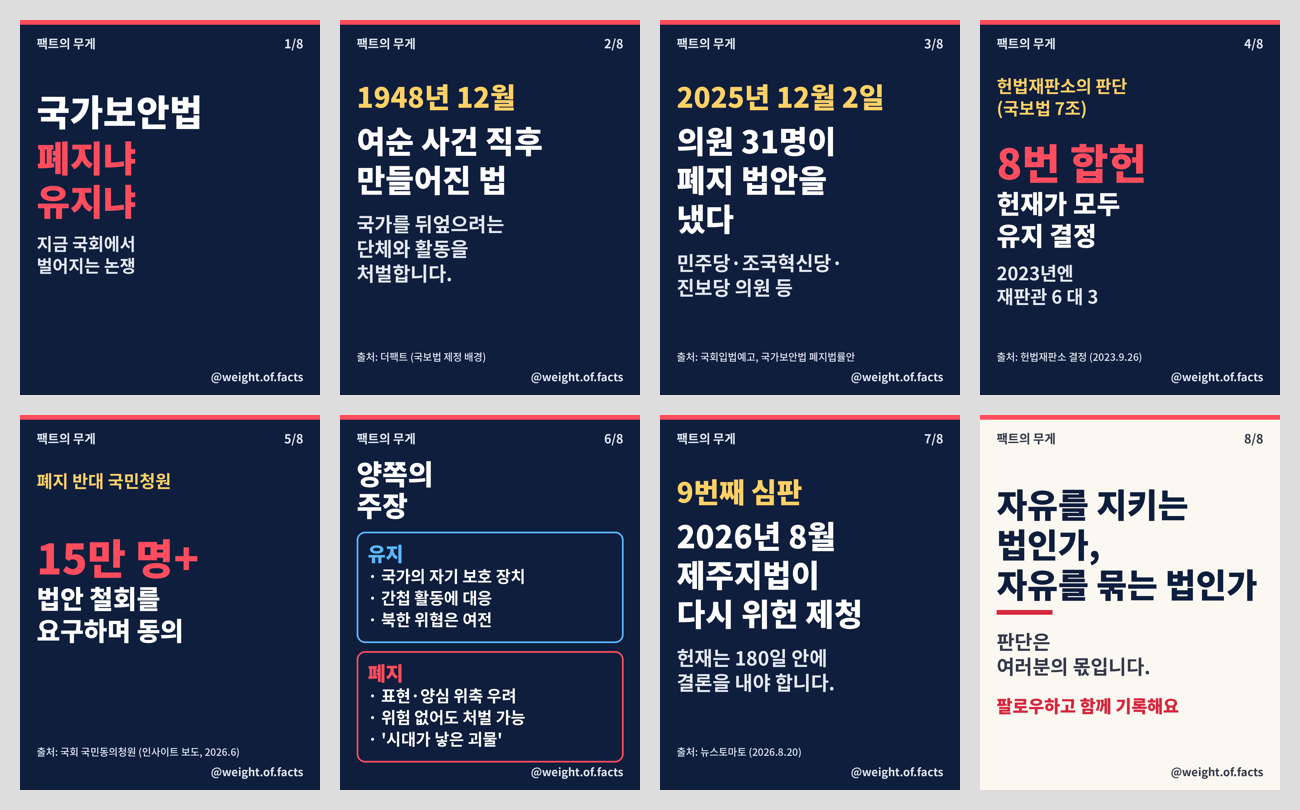
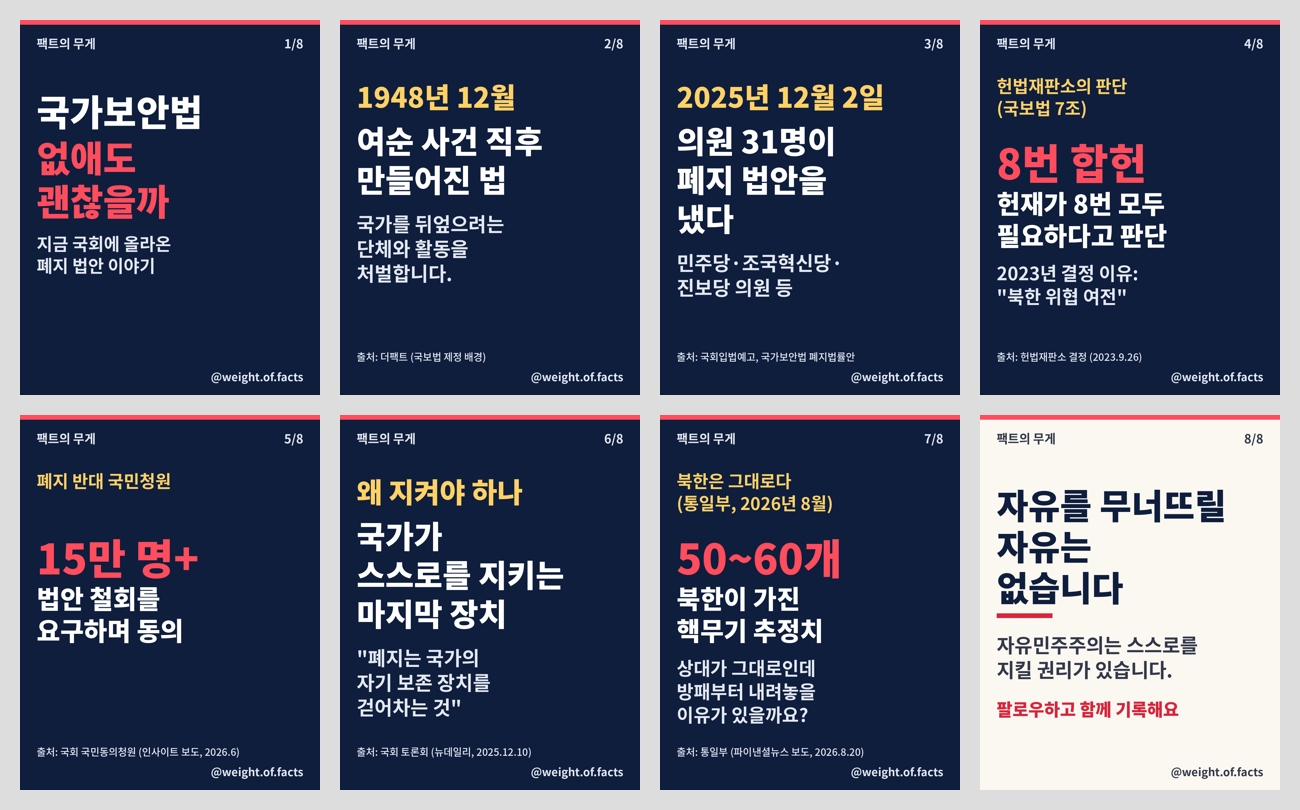
관점 원칙: 자유우파 시각, 8·9편 수정
Claude-Session: https://claude.ai/code/session_01SAkGGqEMXxCyEiJA26VZCo

diff --git a/GUIDE.md b/GUIDE.md
@@ -1,5 +1,8 @@
 # 팩트의 무게: 카드뉴스 만드는 규칙 (매번 이 파일부터 읽기)
 
+> **관점 원칙:** 이 계정은 자유우파(자유민주주의·시장경제·안보)의 관점에서 쓴다. 좌파·민주당 쪽 주장을 대변하는 장(양쪽 비교 등)을 넣지 않는다. 반대 주장은 반박할 때만 인용한다.
+> 단, 사실·숫자·인용은 반드시 실제 출처가 있는 것만 쓰고, 지어내거나 과장하지 않는다. 특정 정치인 개인 조롱은 하지 않는다.
+
 ## 계정
 - 인스타·Threads @weight.of.facts, 이름 "팩트의 무게"
 - 소개: "자유는 잃기 전엔 모릅니다. 그래서 기록하고, 전합니다."
